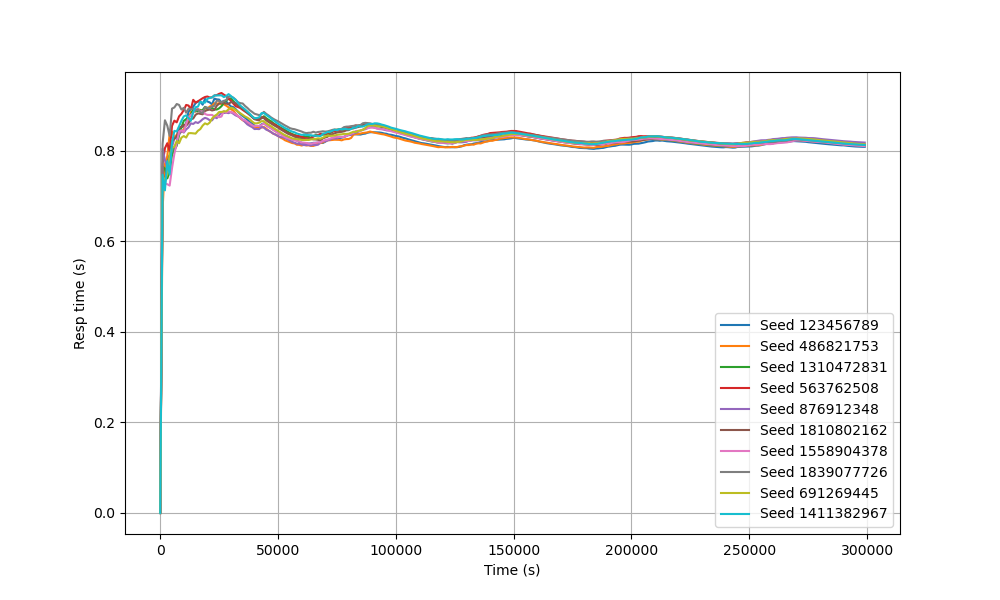
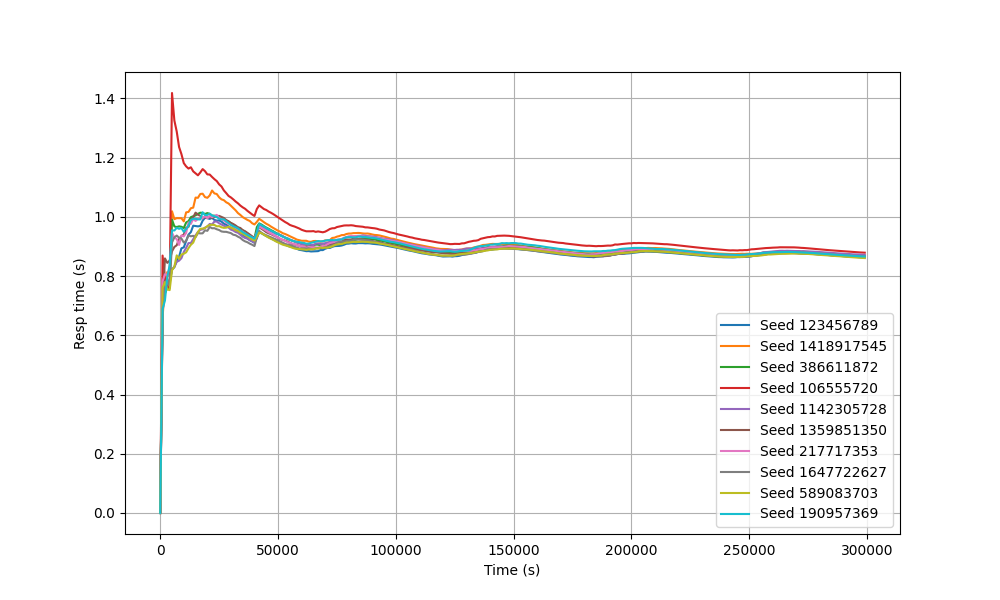
run transient

diff --git a/utils/variables.py b/utils/variables.py
@@ -36,7 +36,7 @@ SEED = 123456789
 
 REPLICATIONS = 50
 
-TRANSIENT_ANALYSIS = 0  # 1 per fare l'analisi del transitorio, 0 per simulazioni finite/infinite normali
+TRANSIENT_ANALYSIS = 1  # 1 per fare l'analisi del transitorio, 0 per simulazioni finite/infinite normali
 
 PRINT_PLOT_BATCH = 1
 
